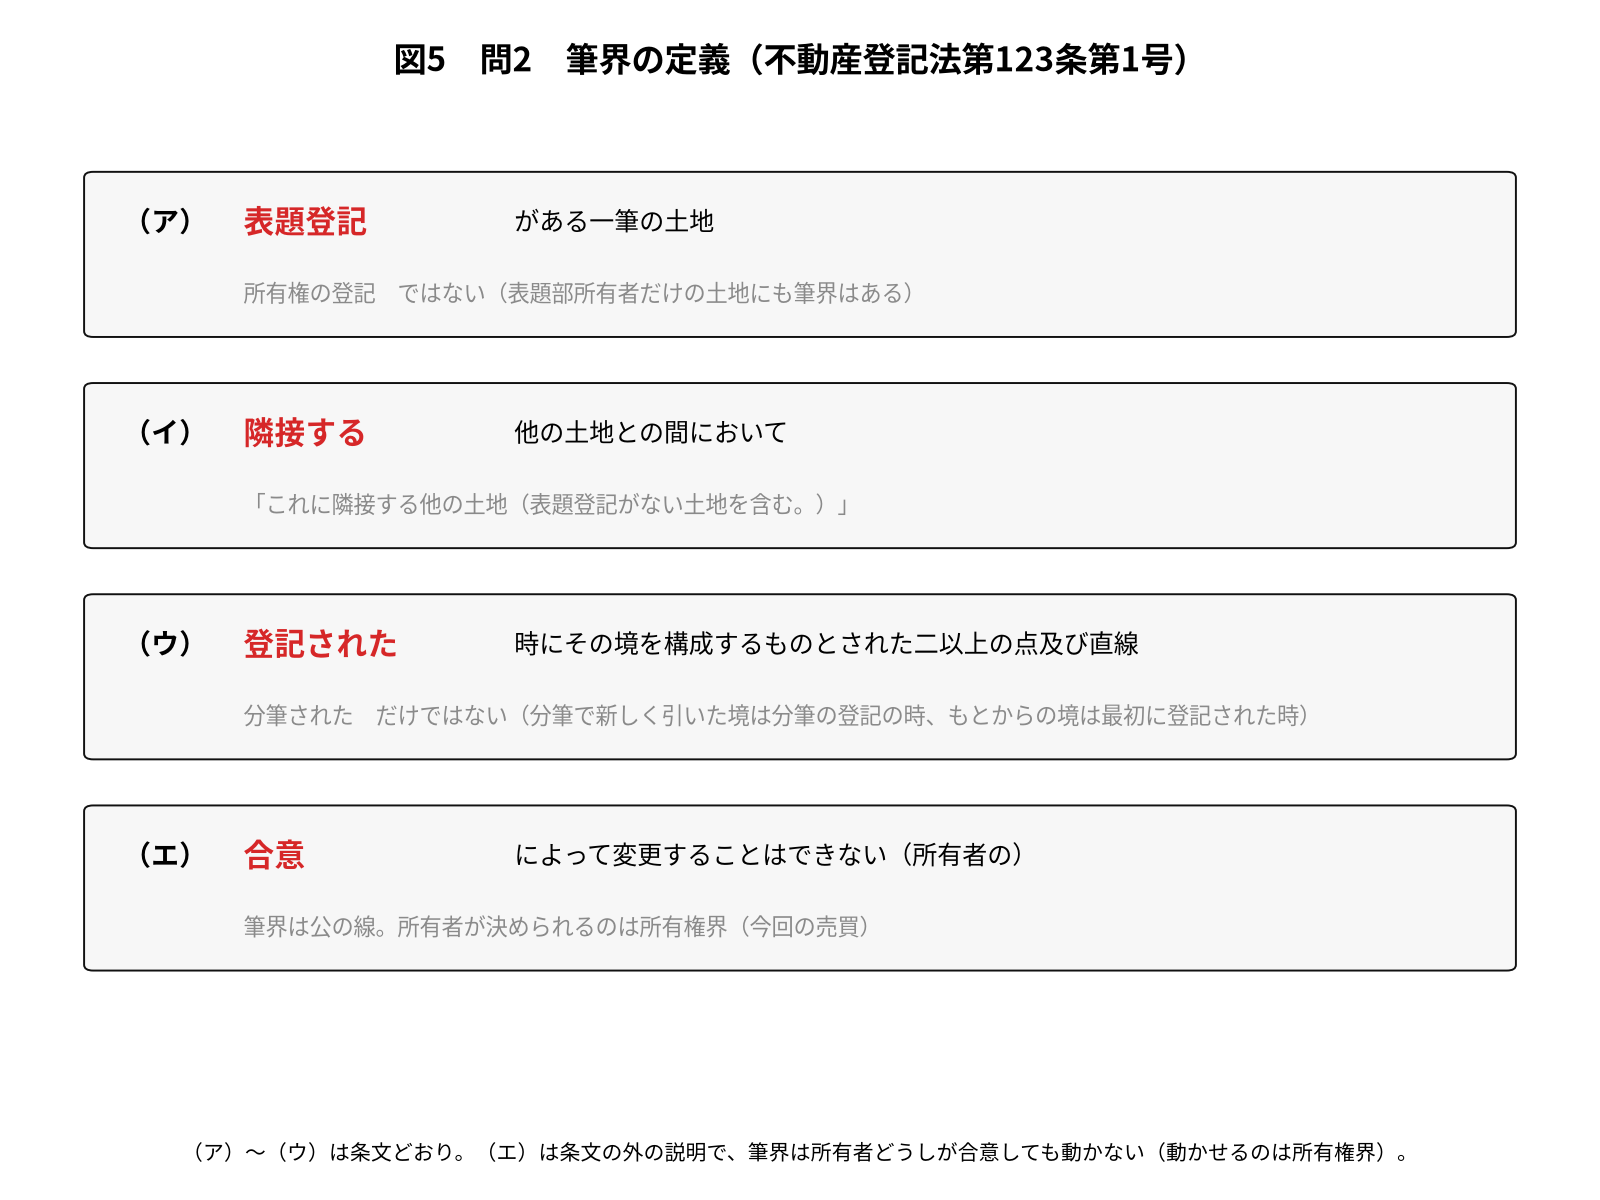
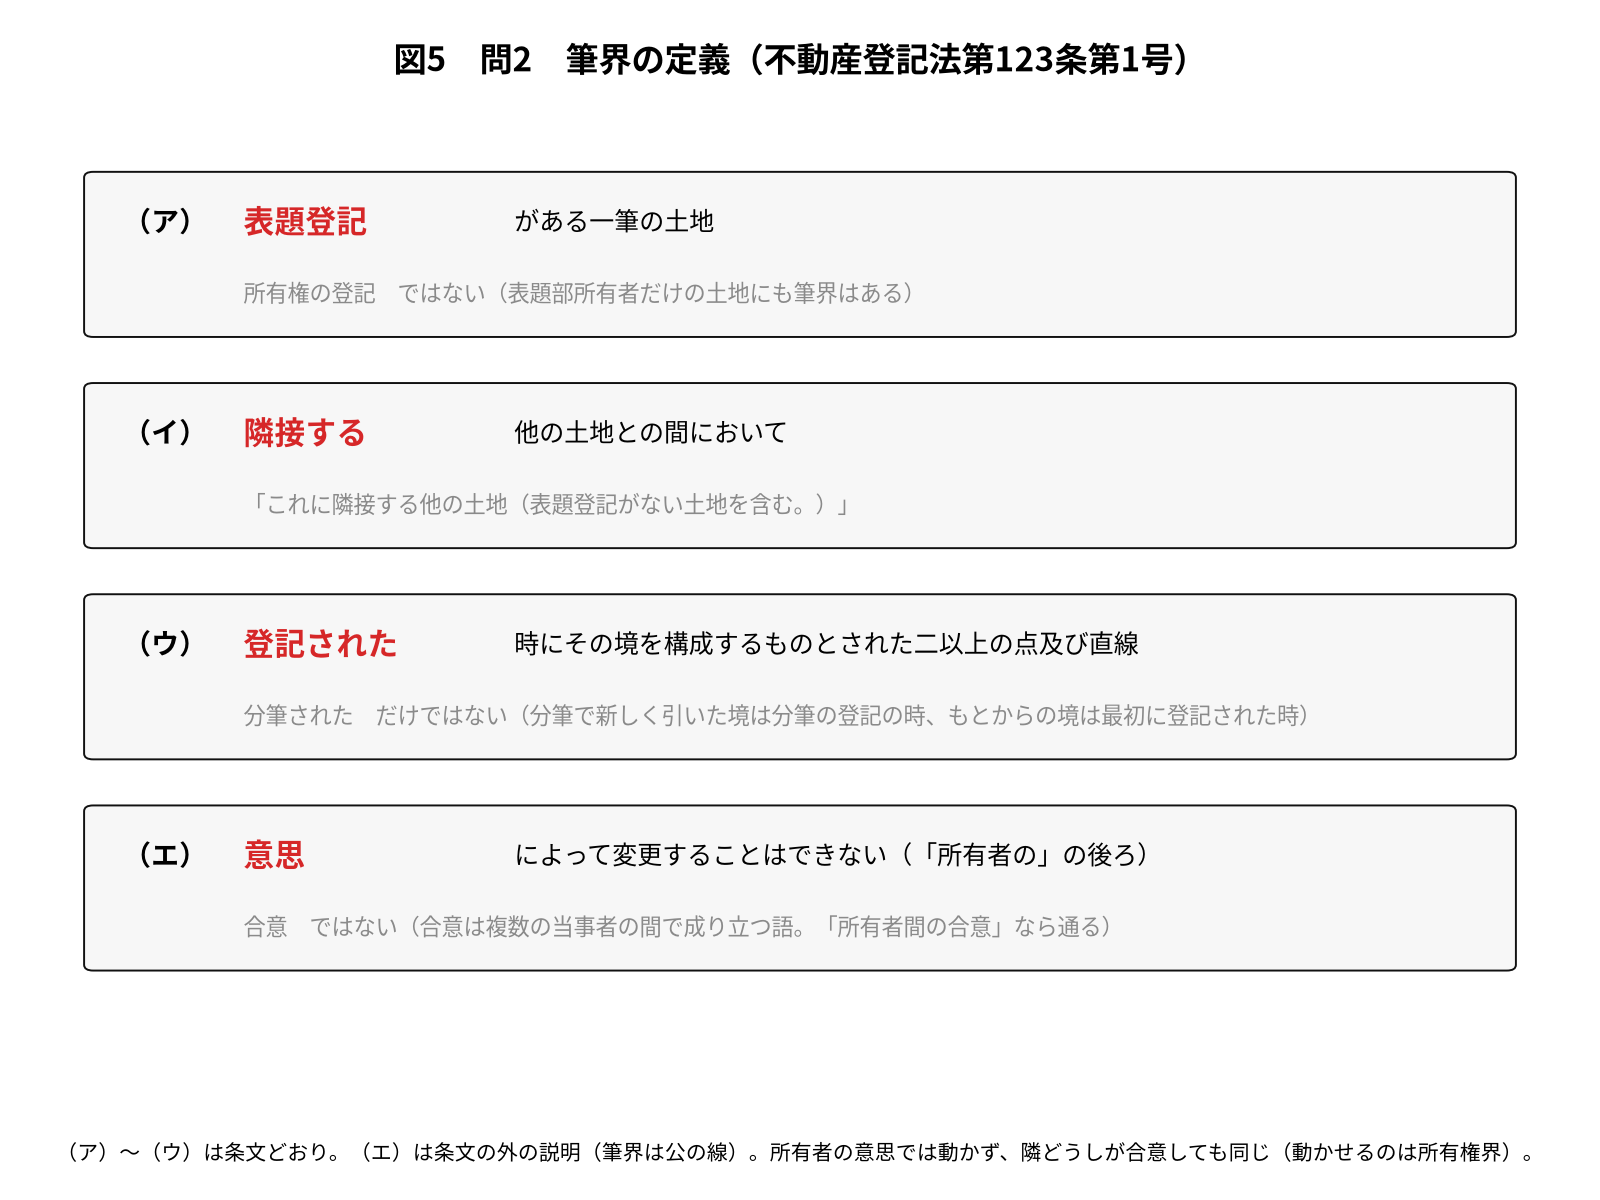
H30 Q21: 問2（エ）を「合意」から「意思」に修正し、トリ先生の説明を追加
- 空欄の前が「所有者の（エ）によって」なので、複数の当事者の間で成り立つ「合意」ではなく「意思」
  （「所有者間の合意」なら通る。筆界は公法上の境界で所有者の意思では動かず、隣どうしが合意しても同じ）
- 第4章の会話（藍子の誤答→トリ先生の添削）、まとめ、解説図5と図のプロンプト、照合スクリプト（NG 0件）を修正
- PDCA：穴埋めは空欄の前後の言葉とのつながりで確かめる、を執筆プロンプト・チェックリスト3-1・依頼文に追加し、
  改善記録・README・CLAUDE.mdを更新

Claude-Session: https://claude.ai/code/session_01XxzUrF9d5pKi2C2ak82JYQ

Changed region(s): [[0.1562, 0.6783, 0.7188, 0.8017], [0.125, 0.9558, 0.9375, 0.9867], [0.6562, 0.7708, 0.6875, 0.8017]]

diff --git a/note-articles-Kijyutsu/H30/Q21/zu/draw_H30_dai21mon_kaisetsuzu.py b/note-articles-Kijyutsu/H30/Q21/zu/draw_H30_dai21mon_kaisetsuzu.py
@@ -267,12 +267,12 @@ def arrow(ax, p, q, color=BLACK):
 # 図5：問2 筆界の定義（整理図。固定配置）
 # =====================================================================
 fig, ax = frame('図5　問2　筆界の定義（不動産登記法第123条第1号）',
-                '（ア）〜（ウ）は条文どおり。（エ）は条文の外の説明で、筆界は所有者どうしが合意しても動かない（動かせるのは所有権界）。')
+                '（ア）〜（ウ）は条文どおり。（エ）は条文の外の説明（筆界は公の線）。所有者の意思では動かず、隣どうしが合意しても同じ（動かせるのは所有権界）。')
 ROWS = [
     (78, '（ア）', '表題登記', 'がある一筆の土地', '所有権の登記　ではない（表題部所有者だけの土地にも筆界はある）'),
     (56, '（イ）', '隣接する', '他の土地との間において', '「これに隣接する他の土地（表題登記がない土地を含む。）」'),
     (34, '（ウ）', '登記された', '時にその境を構成するものとされた二以上の点及び直線', '分筆された　だけではない（分筆で新しく引いた境は分筆の登記の時、もとからの境は最初に登記された時）'),
-    (12, '（エ）', '合意', 'によって変更することはできない（所有者の）', '筆界は公の線。所有者が決められるのは所有権界（今回の売買）'),
+    (12, '（エ）', '意思', 'によって変更することはできない（「所有者の」の後ろ）', '合意　ではない（合意は複数の当事者の間で成り立つ語。「所有者間の合意」なら通る）'),
 ]
 for y, key, ans, rest, note in ROWS:
     box(ax, 3, y, 94, 16)

diff --git a/note-articles-Kijyutsu/qa-checklist-kijutsu.md b/note-articles-Kijyutsu/qa-checklist-kijutsu.md
@@ -130,6 +130,7 @@
 - **売った一部の地目の変化（2026-09-29追加、H30/Q21）**：売買・工事の事実関係から、分ける部分の利用（駐車場→家の敷地）が変わっていないかを確かめたか。変わっていれば登記の目的を「土地一部地目変更・分筆登記」にし、日付を工事の完了日（契約の日ではない）にしているか。建物の増築の登記を土地の申請書に混ぜていないか
 - **支号のない本番の分筆と一部地目変更（2026-09-29追加、H30/Q21。上のR1/Q21の項と同じ論点）**：一部地目変更と一緒のとき、（イ）の行の原因が「年月日一部地目変更」「①③11番1、11番2に分筆」の2つになっているか（準則第74条第1項）。雑種地のまま残る筆を1㎡未満、宅地になる筆を小数第2位未満で切り捨てているか
 - **大きな座標の電卓操作（2026-09-29追加、H30/Q21）**：マイナスの座標を、確認していない符号のキーではなく「0 [−] … [−] … [i]」で入れているか。面積の表示が読める形（頂点を原点にずらした差の式）になっているか
+- **穴埋めの語は空欄の前後とのつながりで確かめる（2026-09-29追加、H30/Q21）**：意味が合うだけでなく、空欄の前後の言葉と文としてつながるか。「所有者の（エ）によって変更することはできない」に「合意」（複数の当事者の間で成り立つ語。「所有者間の合意」なら通る）を入れていないか（正しくは「意思」）。条文にない説明の部分で解答例と語が食い違ったら、特に確かめる
 - **器械点と後視点（2026-09-29追加、H27/Q21）**：観測データの表どおりの器械点・後視点で放射しているか（前の年度の癖で入れ替えていないか）。真数表がある年度は、方向角 − 180° の行で検算したか
 - **幅は直角に測る（2026-09-29追加、H27/Q21）**：水路・道路の「幅」を、角の内側の点を外側の点の真横にとる形や、南北・東西の線に沿った長さで使っていないか。求めた点から相手の岸の線までの距離（倍面積 ÷ 底辺）が幅に一致するかを検算したか（H27/Q21：E・Kとも7.00。誤りのKは4.20、誤りのHは5.60）
 - **水路にした土地の扱い（2026-09-29追加、H27/Q21）**：私有地を水路にしたのを滅失と答えていないか（地目の変更で、登記の対象のまま）。地目は用悪水路（準則第68条第16号）か井溝（第19号）か。公有水面の埋立（表題登記、法第36条）・海没（滅失、法第42条）と区別したか
@@ -307,6 +308,12 @@
 
 チェックで見つかった誤りの種類と、指示書・執筆プロンプトへの反映を記録する。新しい記録は上に追加する。
 
+**2026-09-29　H30 Q21 問2（エ）を「合意」から「意思」に修正（ユーザー指示）**
+
+- 指摘：空欄の前が「所有者の（エ）によって」。「合意」は複数の当事者の間で成り立つ語なので、普通は「所有者間の合意」「隣接所有者の合意」と書く。「所有者の」のすぐ後ろに置いて自然なのは「意思」。意味の面でも、筆界は公法上の境界で、所有者の意思では動かせない（この後ろ半分は第123条第1号の条文にはない説明）
+- 原因：「筆界は当事者の合意で動かない」という覚えた言い回しに引っぱられ、空欄の前の言葉とのつながり（文法）を確かめずに答えを決めた。解答例（アガルート）の「意思」と食い違ったのに、自分の答えを残した
+- 反映：記事の第4章で藍子が「合意」と答え、トリ先生が「所有者の」の後ろに入る語として「意思」に直す会話にした（隣どうしが合意しても動かないことも添える）。解説図5・図のプロンプト・照合スクリプト・README・CLAUDE.mdを直した。会話形式の執筆プロンプトの「土地固有の必須チェック論点」と本書の3-1に「穴埋めは空欄の前後の言葉とのつながりで確かめる」を加え、依頼文にも1行足した。条文の外の説明の穴埋めで、解答例と語が食い違ったときは、自分の答えを採る前に空欄の前後の文とのつながりを確かめる
+
 **2026-09-29　H27 Q21（土地・会話形式。放射のA点、幅7.00mの水路の岸の交点K・H、私有地を水路にしても登記の対象、一部地目変更・分筆登記、乙土地の土地所在図兼地積測量図。アガルート解答例と照合）**
 
 - 経緯：`irai-bun_tochi_shinki-nendo.md` の依頼文で、平成27年度第21問を会話形式で作成した。最初の添付は3ファイルで、2つ（md5 38506c08…）は同じ第21問の答案用紙（2ページ。テキスト層あり）、もう1つは試験問題の本文（8ページ、22〜29ページ、画像のみ）で、予備校の解答例が入っていなかった。作業を始める前にユーザーに確認し、追加で届いたアガルートの過去問集の該当部分（26ページ、画面の撮影画像。問題の再掲・白紙の答案用紙・解説・解答例）は、自分で解き終わるまで開かなかった
@@ -331,7 +338,7 @@
 **2026-09-29　H30 Q21（土地・会話形式）の作成とダブルチェック**
 
 - 資料：添付は3ファイル。答案用紙（試験のもの、2ページ、テキストあり）と、アガルートの過去問集の該当部分（全22ページ。1〜6ページが問題の再掲、7〜9ページが白紙の答案用紙、10〜22ページが解説と解答例）、その1〜6ページと同じ内容の別ファイル（6ページ）。試験問題の本文は添付になかったが、リポジトリの `public/kijutsu/H30-tochi/`（午後の部の問題冊子の画像。q25〜q30が第21問）で読めたので、ユーザーに確認せずに進めた。再掲と本文の日付・数値に違いはなかった
-- 照合結果：問1（D点・I点）、問2のア〜ウ、問3の全欄、問4の辺長8本・地番・境界標の種類がアガルートの解答例と一致。問2（エ）だけ食い違い（解答例は「意思」）。条文の外の説明の部分なので、リポジトリの他の記事と同じく「合意」を採用し、記事で「意思」でも同じ趣旨と触れた（法務省の説明ページは、この環境からは確認できなかった）
+- 照合結果：問1（D点・I点）、問2のア〜エ、問3の全欄、問4の辺長8本・地番・境界標の種類がアガルートの解答例と一致。問2（エ）は最初「合意」で書いて解答例（「意思」）と食い違ったが、ユーザーの指示で「意思」に直した（下の追記）
 - 自分で解いたときに迷ったこと（藍子の誤答に使った）：観測角の向きの注がない（時計回りで、反時計回りだとDが道路の南）。H→Eを「ほぼ真南」と見て真南に下ろすと、IがJと0.01mで重なる（E − H ＝ −9.97 − 0.70i）。（エ）の語句。売った細い部分の地目（ブロック塀と増築で10月1日に宅地に）と、一部地目変更の日付（契約の1月ではない）。本番の11番を分筆したときの（イ）の行（地番を書き①③）。（イ）の雑種地の端数（244.56ではなく244）。JIの0.8050…の四捨五入
 - 新しい気づき：（同じ日に別セッションで作成したR1/Q21と、支号のない土地の分筆〈①③〉の論点が重なったので、H30の項目は一部地目変更と一緒のときの書き方だけを足した）世界測地系の大きなマイナスの座標は、符号のキー（機種の仕様を確認できていない）を使わず「0 [−] … [−] … [i]」で入れ、多角形の面積は頂点を原点にずらした差で計算すると表示が読める。執筆プロンプト（会話形式・プロース形式の「計算方法」）と依頼文に追加した。本番の分筆の①③、売った一部の地目の変化、「ほぼ軸に平行」の線を、会話形式の執筆プロンプトの「土地固有の必須チェック論点」と本書の3-1に追加した
 - 作図：延長線の上の交点の図（tの範囲を色分け、誤りの点が別の点とほぼ重なる拡大）を基本フォームに追加した。**基本フォームの本文を直したら、全年度の `prompt_*_kaiwa_kaisetsuzu.md` の本文にも同じ変更を入れる**（照合スクリプトが本文の一致を確かめるため。今回はR2〜R7のプロンプトにも同じ2行を入れ、全年度の照合スクリプトでNG 0件を確認した）

diff --git a/note-articles-Kijyutsu/prompt_note-kijutsu_tochi_kaiwa_kyoutsu.md b/note-articles-Kijyutsu/prompt_note-kijutsu_tochi_kaiwa_kyoutsu.md
@@ -131,6 +131,7 @@
 - **支号のない本番の分筆（H30/Q21でも出題。上のR1/Q21の論点と同じ）**：一部地目変更と一緒のときは、（イ）の行の原因を「平成30年10月1日一部地目変更」「①③11番1、11番2に分筆」の2つにする（準則第74条第1項）。支号のある土地（10番1など）の分筆で地番欄を空欄にして「③」だけにするのと取り違えない
 - **地目で地積の端数が変わる（H30/Q21で追加）**：一部地目変更・分筆では、雑種地のまま残る（イ）は1㎡未満切捨て（244.561→244）、宅地になる（ロ）は小数第2位未満切捨て（9.03935→9.03）。宅地・鉱泉地以外でも10㎡以下なら小数第2位まで（不動産登記規則第100条）
 - **大きな座標の年度の電卓操作（H30/Q21で追加）**：世界測地系の −5万台の座標は、マイナスの符号のキーを使わず「0 [−] 50731.54 [−] 14904.34 [i]」と引き算で入れる（確認済みのキーだけで済む）。多角形の面積は、そのまま P1・Conjg(P2) ＋ … を計算すると実部が何十億にもなるので、1つの頂点Aを原点にずらした (P − A) で同じ式を計算する（Aを含む2項は0になる。例：(I − A)・Conjg(E − A) ＋ (E − A)・Conjg(F − A) ＋ (F − A)・Conjg(G − A)）
+- **穴埋めの語は空欄の前後とのつながりで選ぶ（H30/Q21で追加）**：「所有者の（エ）によって変更することはできない」の（エ）は「意思」。「合意」は複数の当事者の間で成り立つ語で、「所有者間の合意」「隣接所有者の合意」の形になる。筆界は公法上の境界なので、所有者の意思では動かせない（隣どうしが合意しても同じ）。この後ろ半分は不動産登記法第123条第1号の条文にはない説明なので、条文の暗記だけでは決まらない。意味が合う語を探したら、空欄の前後の言葉と文としてつながるかを確かめる
 - **器械点と後視点（H27/Q21で追加）**：観測データの表の器械点・後視点を、前の年度の癖で入れ替えない（H27/Q21は器械点T1・後視点T2。入れ替えるとAは甲土地から約74m東に出る）。問題に三角関数真数表が付いていれば、方向角から180°を引いた角の行で検算できる
 - **水路・道路の幅は直角に測る（H27/Q21で追加）**：「幅7.00m」は両岸の線の間を直角に測った距離。折れ曲がる水路の角の内側の点（K）を、外側の点（N）の真横にとらない（H27/Q21：Nの真西だと幅4.20m）。一方の岸の上にある既知の点（E）とその線までの距離（三角形の倍面積 ÷ 底辺）で7.00を確かめ、平行な岸の交点で出す。斜めの岸を南北の線で横切る長さは 幅 ÷ sin（7.00 ÷ sin 53°07′48″ ＝ 8.75。Iの真北7.00mにとると幅5.60m）
 - **私有地を水路にしても登記の対象（H27/Q21で追加）**：所有者が自分の土地を掘って水路にしても、私権の客体である限り登記の対象となる土地のまま。地目が変わる（悪水はいせつ用なら用悪水路。不動産登記規則第99条、準則第68条第16号。井溝〈第19号〉と取り違えない）。一部だけなら一部地目変更・分筆登記（法第39条第2項、規則第35条第7号）。国有の公共用の水路（公有水面）を埋め立てた土地は、竣工認可の告示で所有権を取得した新たに生じた土地として表題登記（法第36条）。土地が海に沈んで公有水面になったときが滅失（法第42条）
@@ -332,6 +333,7 @@
   - 座標の差で確かめた傾いた線の延長 ⇔ 「ほぼ真南」と決めつけて真南に下ろす（IがJと重なる）
   - 表題登記がある一筆の土地 ⇔ 所有権の登記がある土地（筆界の定義）
   - 登記された時 ⇔ 分筆された時（筆界の定義）
+  - 「所有者の」の後ろに入る「意思」⇔ 複数の当事者の間で成り立つ「合意」（筆界の定義の（エ））
   - 土地一部地目変更・分筆登記 ⇔ 土地分筆登記だけ
   - 利用が変わった日（工事の完了日）⇔ 売買契約の日
   - 土地の申請書（申請人は登記名義人の売主）⇔ 建物の増築の登記（申請人は建物の所有者）

diff --git a/note-articles-Kijyutsu/README.md b/note-articles-Kijyutsu/README.md
@@ -87,7 +87,7 @@ note-articles-Kijyutsu/
 │       └── verify_H29_dai22mon.py                             記事・付属プロンプトの数値・求積・体裁の照合スクリプト
 ├── H30/
 │   ├── Q21/
-│   │   ├── note_H30_dai21mon_tochi_kaiwa_kaisetsu.md     note記事本文（会話形式。アガルート解答例と照合済み〈問2（エ）は「合意」を採用〉。放射のD点・延長線の交点のI点・筆界の定義・土地一部地目変更・分筆登記）
+│   │   ├── note_H30_dai21mon_tochi_kaiwa_kaisetsu.md     note記事本文（会話形式。アガルート解答例と照合済み〈問2（エ）は「意思」〉。放射のD点・延長線の交点のI点・筆界の定義・土地一部地目変更・分筆登記）
 │   │   ├── prompt_H30_dai21mon_kaiwa_kaisetsuzu.md       解説図9枚（全体図・D点・I点・甲土地の面積の裏付け・筆界の定義・必要な登記の判断・公差・分筆後の区画と地番・地積測量図）作成プロンプト（土地の基本フォームの記入済み）
 │   │   ├── prompt_H30_dai21mon_toukishinseisho_gazou.md  登記申請書画像プロンプト（完成形。答案用紙どおり登録免許税が申請人より前、記入行4行）
 │   │   ├── prompt_H30_dai21mon_toukishinseisho_machigai.md  登記申請書「登記の目的」と（イ）（ロ）の行の誤答→添削→正解の画像プロンプト（3コマを縦に積んだ縦長）
